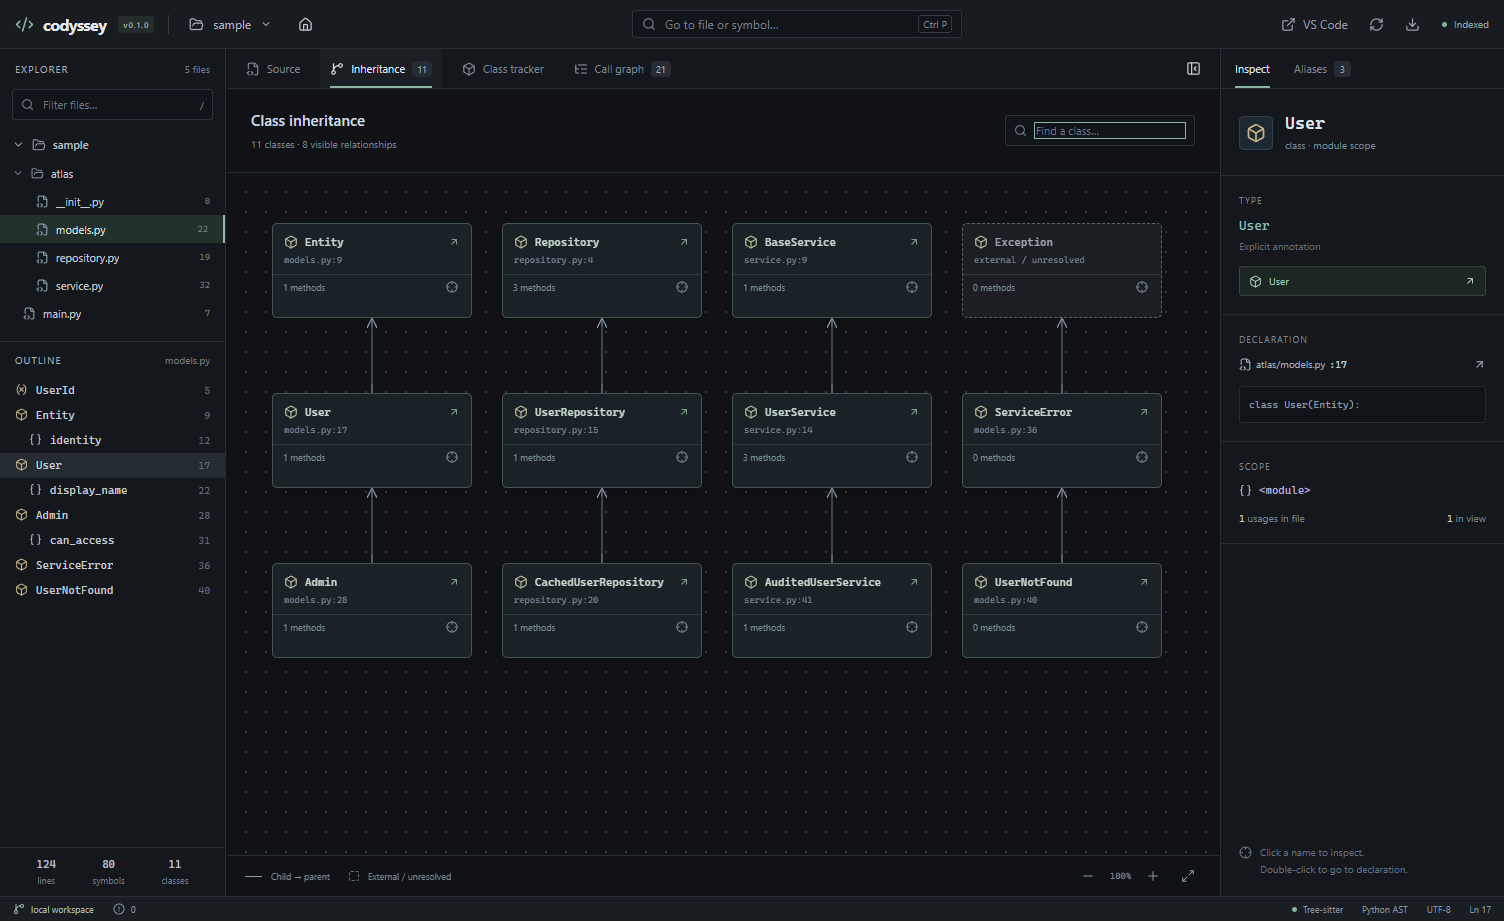
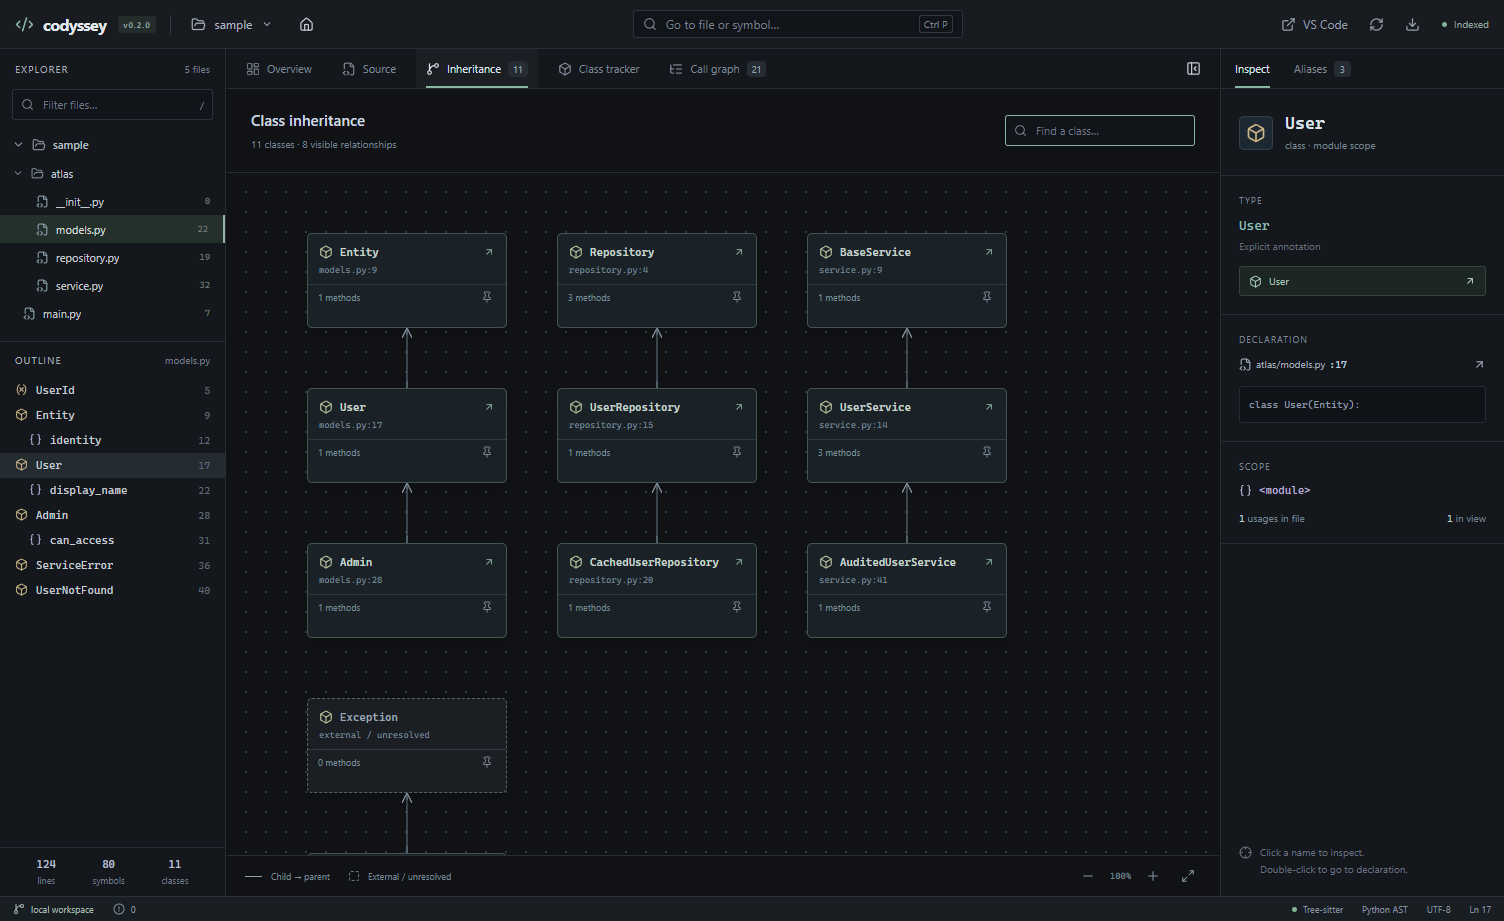
feat: add repository overview with file metrics and filtering
- Bump version to v0.2.0
- Update README and screenshots for the overview view
- Fix call graph layout to size flow beyond overflowing nodes

diff --git a/src/CallGraph.jsx b/src/CallGraph.jsx
@@ -156,21 +156,29 @@ export default function CallGraph({ graph, focusId, onFocus, onNavigate }) {
       const k = viewRef.current.k || 1;
       const fr = flow.getBoundingClientRect();
       const rects = {};
+      let maxRight = 0;
+      let maxBottom = 0;
       flow.querySelectorAll(".call-node").forEach((el) => {
         const id = el.dataset.nodeId;
         const side = el.dataset.side;
         if (!id || !side) return;
         const r = el.getBoundingClientRect();
-        rects[`${side}:${id}`] = {
+        const rect = {
           left: (r.left - fr.left) / k,
           top: (r.top - fr.top) / k,
           right: (r.right - fr.left) / k,
           bottom: (r.bottom - fr.top) / k,
           centerY: (r.top - fr.top + r.height / 2) / k,
         };
+        rects[`${side}:${id}`] = rect;
+        if (rect.right > maxRight) maxRight = rect.right;
+        if (rect.bottom > maxBottom) maxBottom = rect.bottom;
       });
       setNodeRects(rects);
-      setFlowSize({ width: flow.offsetWidth, height: flow.offsetHeight });
+      setFlowSize({
+        width: Math.max(flow.offsetWidth, maxRight + 18),
+        height: Math.max(flow.offsetHeight, maxBottom + 40),
+      });
     };
     measure();
     if (typeof ResizeObserver !== "undefined") {

diff --git a/README.md b/README.md
@@ -1,14 +1,14 @@
 # Codyssey
 
-**v0.1.0** · [MIT License](LICENSE)
+**v0.2.0** · [MIT License](LICENSE)
 
 > A developer tool where you anger the gods and commit atrocities against humanity
 
-A compact Electron desktop app for inspecting Python repositories. The interface is read-only: a file explorer and outline, Tree-sitter source viewer, function-level usage table, symbol inspector, class inheritance graph, class member tracker, and call graph.
+A compact Electron desktop app for inspecting Python repositories. The interface is read-only: a repository overview with file metrics, a file explorer and outline, Tree-sitter source viewer, function-level usage table, symbol inspector, class inheritance graph, class member tracker, and call graph.
 
 ## Download
 
-[Download Codyssey v0.1.0 for Windows x64](https://github.com/Imam-f/codyssey/releases/download/v0.1.0/Codyssey-0.1.0-windows-x64.exe) · [Release notes](https://github.com/Imam-f/codyssey/releases/tag/v0.1.0)
+[Download Codyssey v0.2.0 for Windows x64](https://github.com/Imam-f/codyssey/releases/download/v0.2.0/Codyssey-0.2.0-windows-x64.exe) · [Release notes](https://github.com/Imam-f/codyssey/releases/tag/v0.2.0)
 
 Install [uv](https://docs.astral.sh/uv/getting-started/installation/) and ensure it is on PATH, then launch the portable `.exe`. No app installation or Node.js setup is needed; `uv` selects or installs Python 3.12+ for analysis.
 
@@ -19,6 +19,12 @@ Install [uv](https://docs.astral.sh/uv/getting-started/installation/) and ensure
 Open a Python repository, return to a recent project, or explore the bundled sample.
 
 ![Codyssey welcome page with repository-opening actions and a recent repositories section](docs/screenshots/welcome.png)
+
+### Overview
+
+See lines of code and top-level symbol counts per file, with sortable columns and file filtering.
+
+![Codyssey Overview tab showing per-file line and symbol metrics with filtering](docs/screenshots/overview.png)
 
 ### Source explorer
 
@@ -67,6 +73,7 @@ The packaged application also requires `uv` on PATH. All highlighting assets are
 ## Navigation
 
 - **Open in VS Code** (the toolbar's **VS Code** button) opens the current repository in a new Visual Studio Code window using its `vscode://` handler, preserving workspaces already open in other windows. Visual Studio Code must be installed with that handler enabled.
+- **Overview** lists every indexed file with its line count and top-level symbol counts, with sortable columns and file filtering. Click a row to open that file.
 
 - Click a source identifier to inspect its declaration, type, and usages. Matching occurrences are highlighted. **Ctrl+click**, double-click, or **F12** follows its definition, including imports, package re-exports, qualified module members, and statically known methods in other indexed files. The inspector keeps the local import declaration and shows a separate definition link. Back restores the original source location. Unresolved targets show a message rather than jumping to another symbol.
 - Follow a type link in the inspector, or press **Ctrl+F12**, to open its indexed definition. Built-in and unresolved external types have no definition link.
